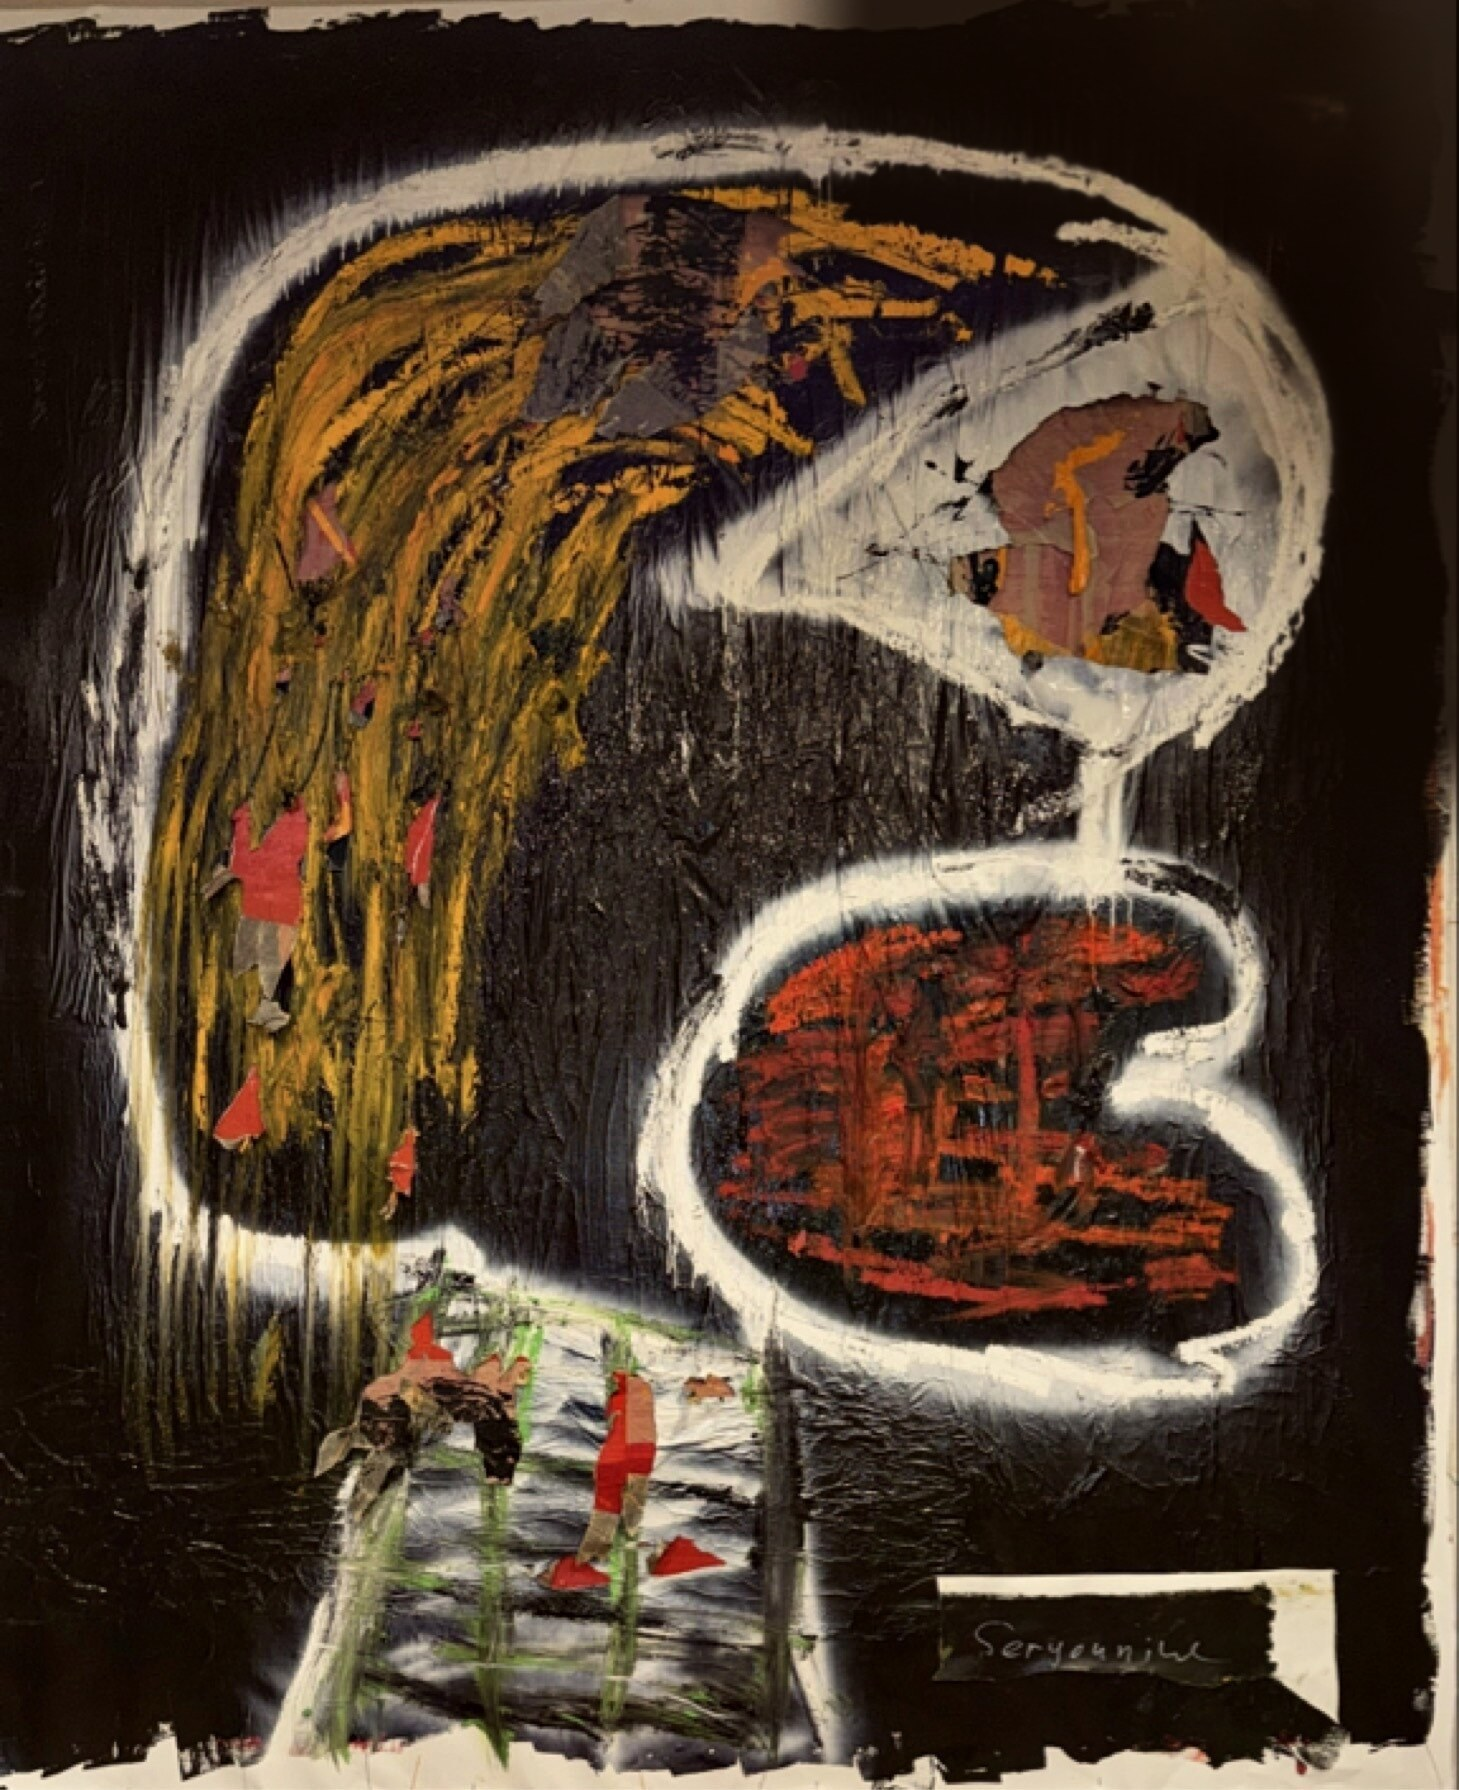
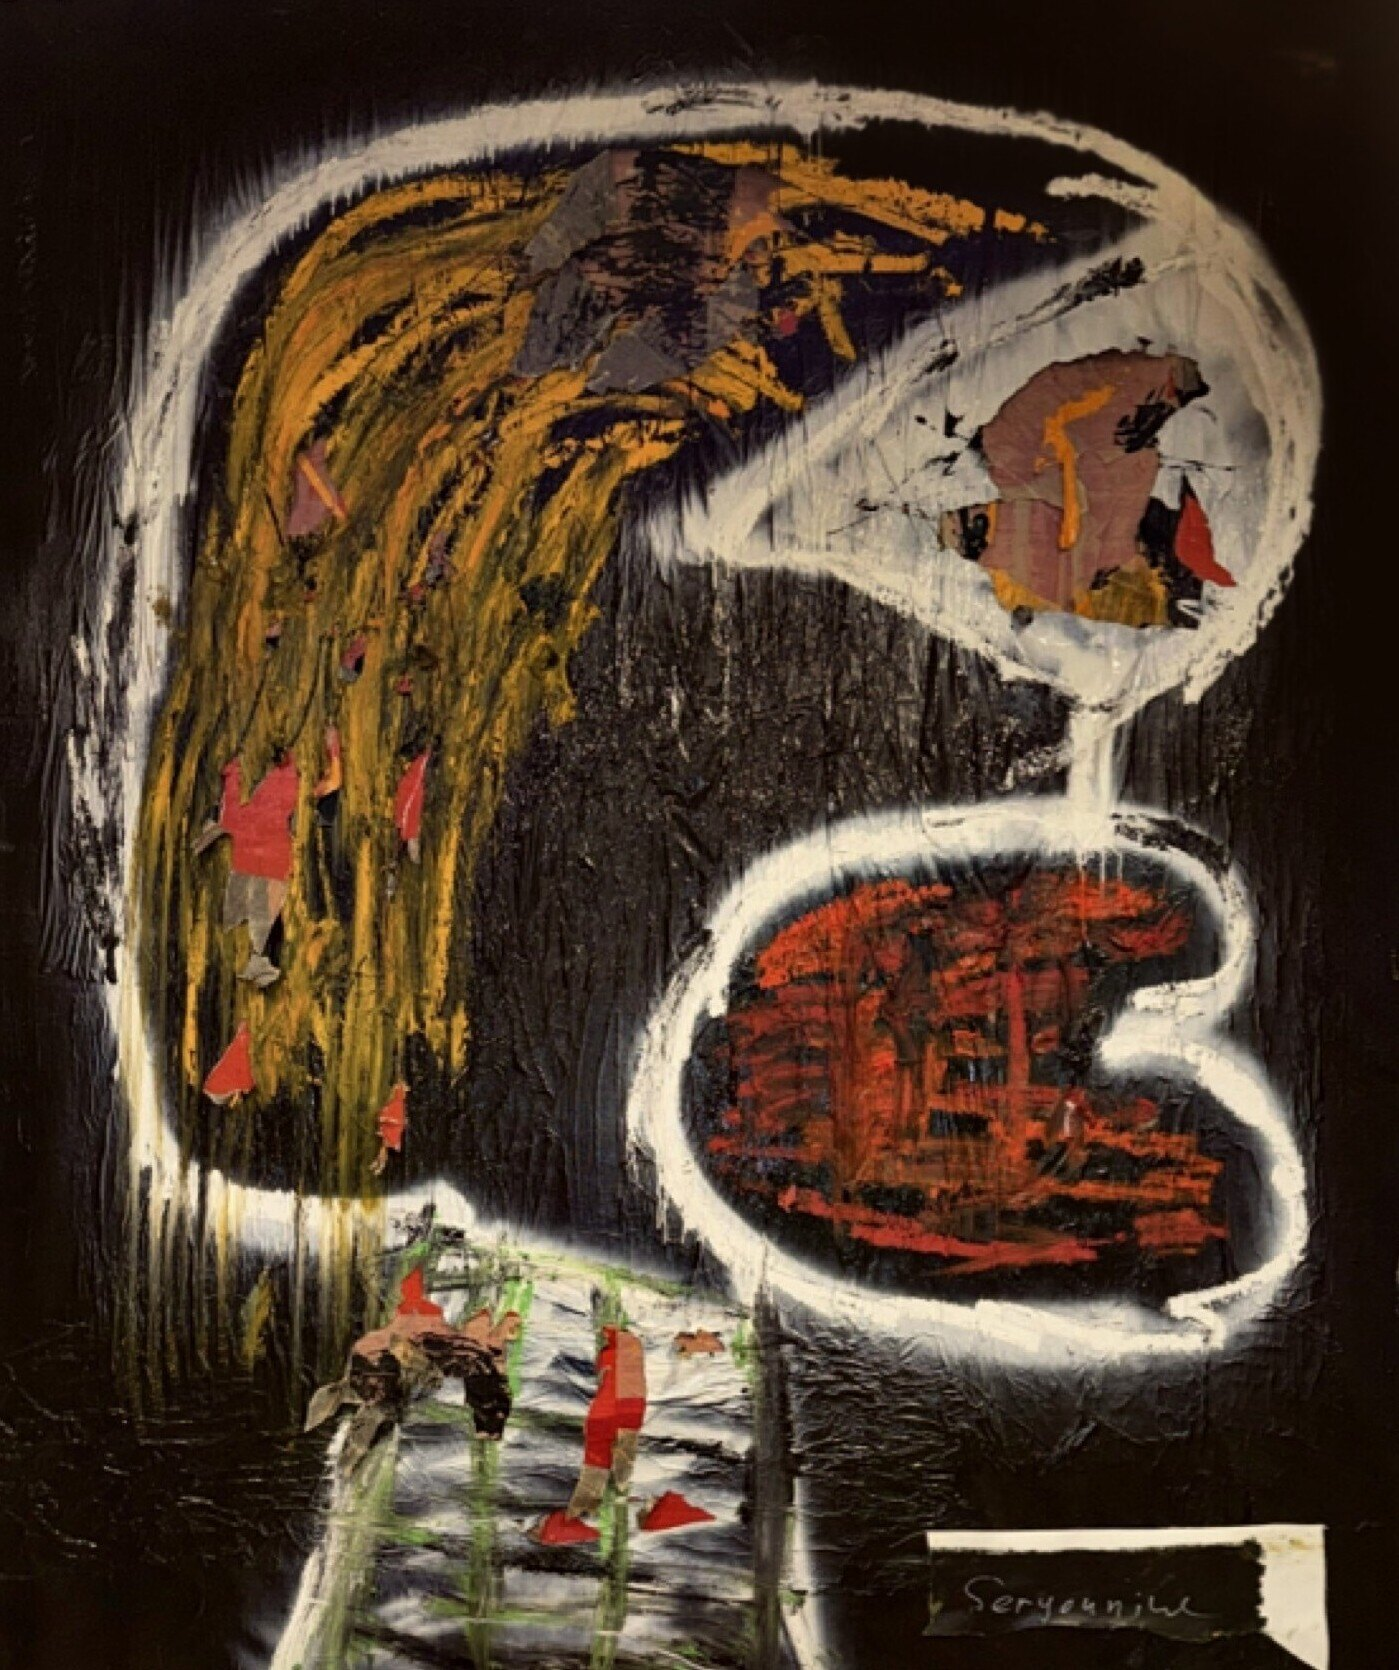
Crop white canvas margins from MM58 photo
Claude-Session: https://claude.ai/code/session_01FYrPgsF63UgjyRSbfZ3Y21

diff --git a/index.html b/index.html
@@ -44,7 +44,7 @@
   <section class="works">
       <figure class="work">
         <div class="work__plate">
-          <img src="images/mm-58.jpg" alt="Mind Mechanics No. 58 (Assemblage I)" loading="lazy" width="1459" height="1790">
+          <img src="images/mm-58.jpg" alt="Mind Mechanics No. 58 (Assemblage I)" loading="lazy" width="1399" height="1670">
           <div class="process">
             <div class="process__step">
               <img src="images/mm-58-process-1.jpg" alt="Mind Mechanics No. 58, black acrylic ground before the first mark" loading="lazy" width="900" height="1600">
